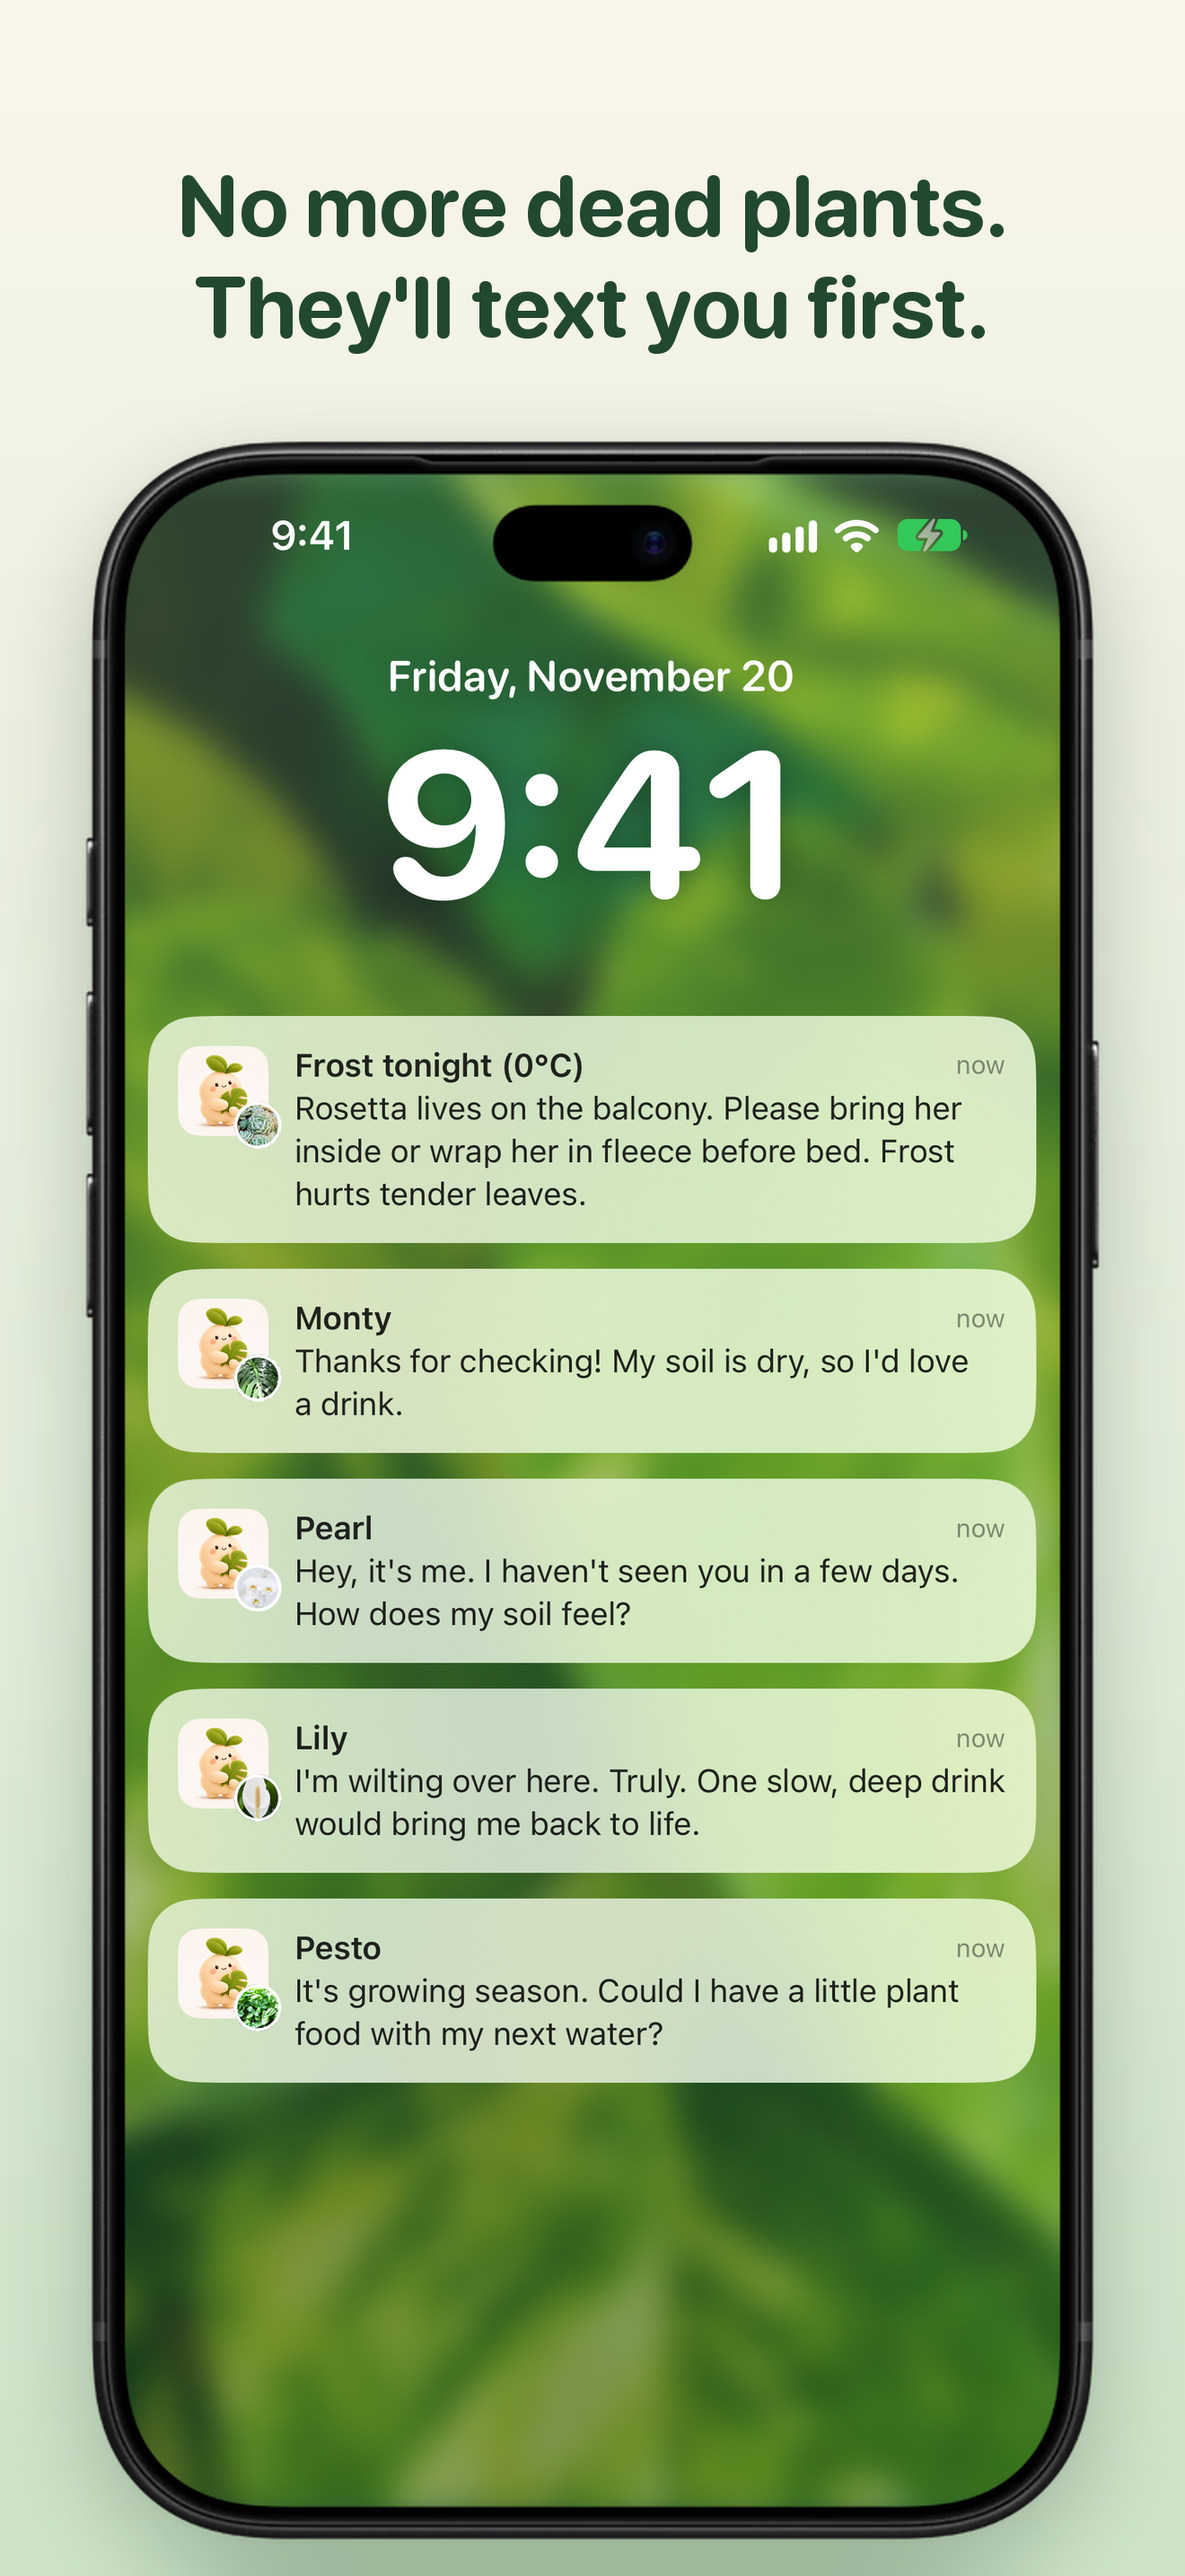
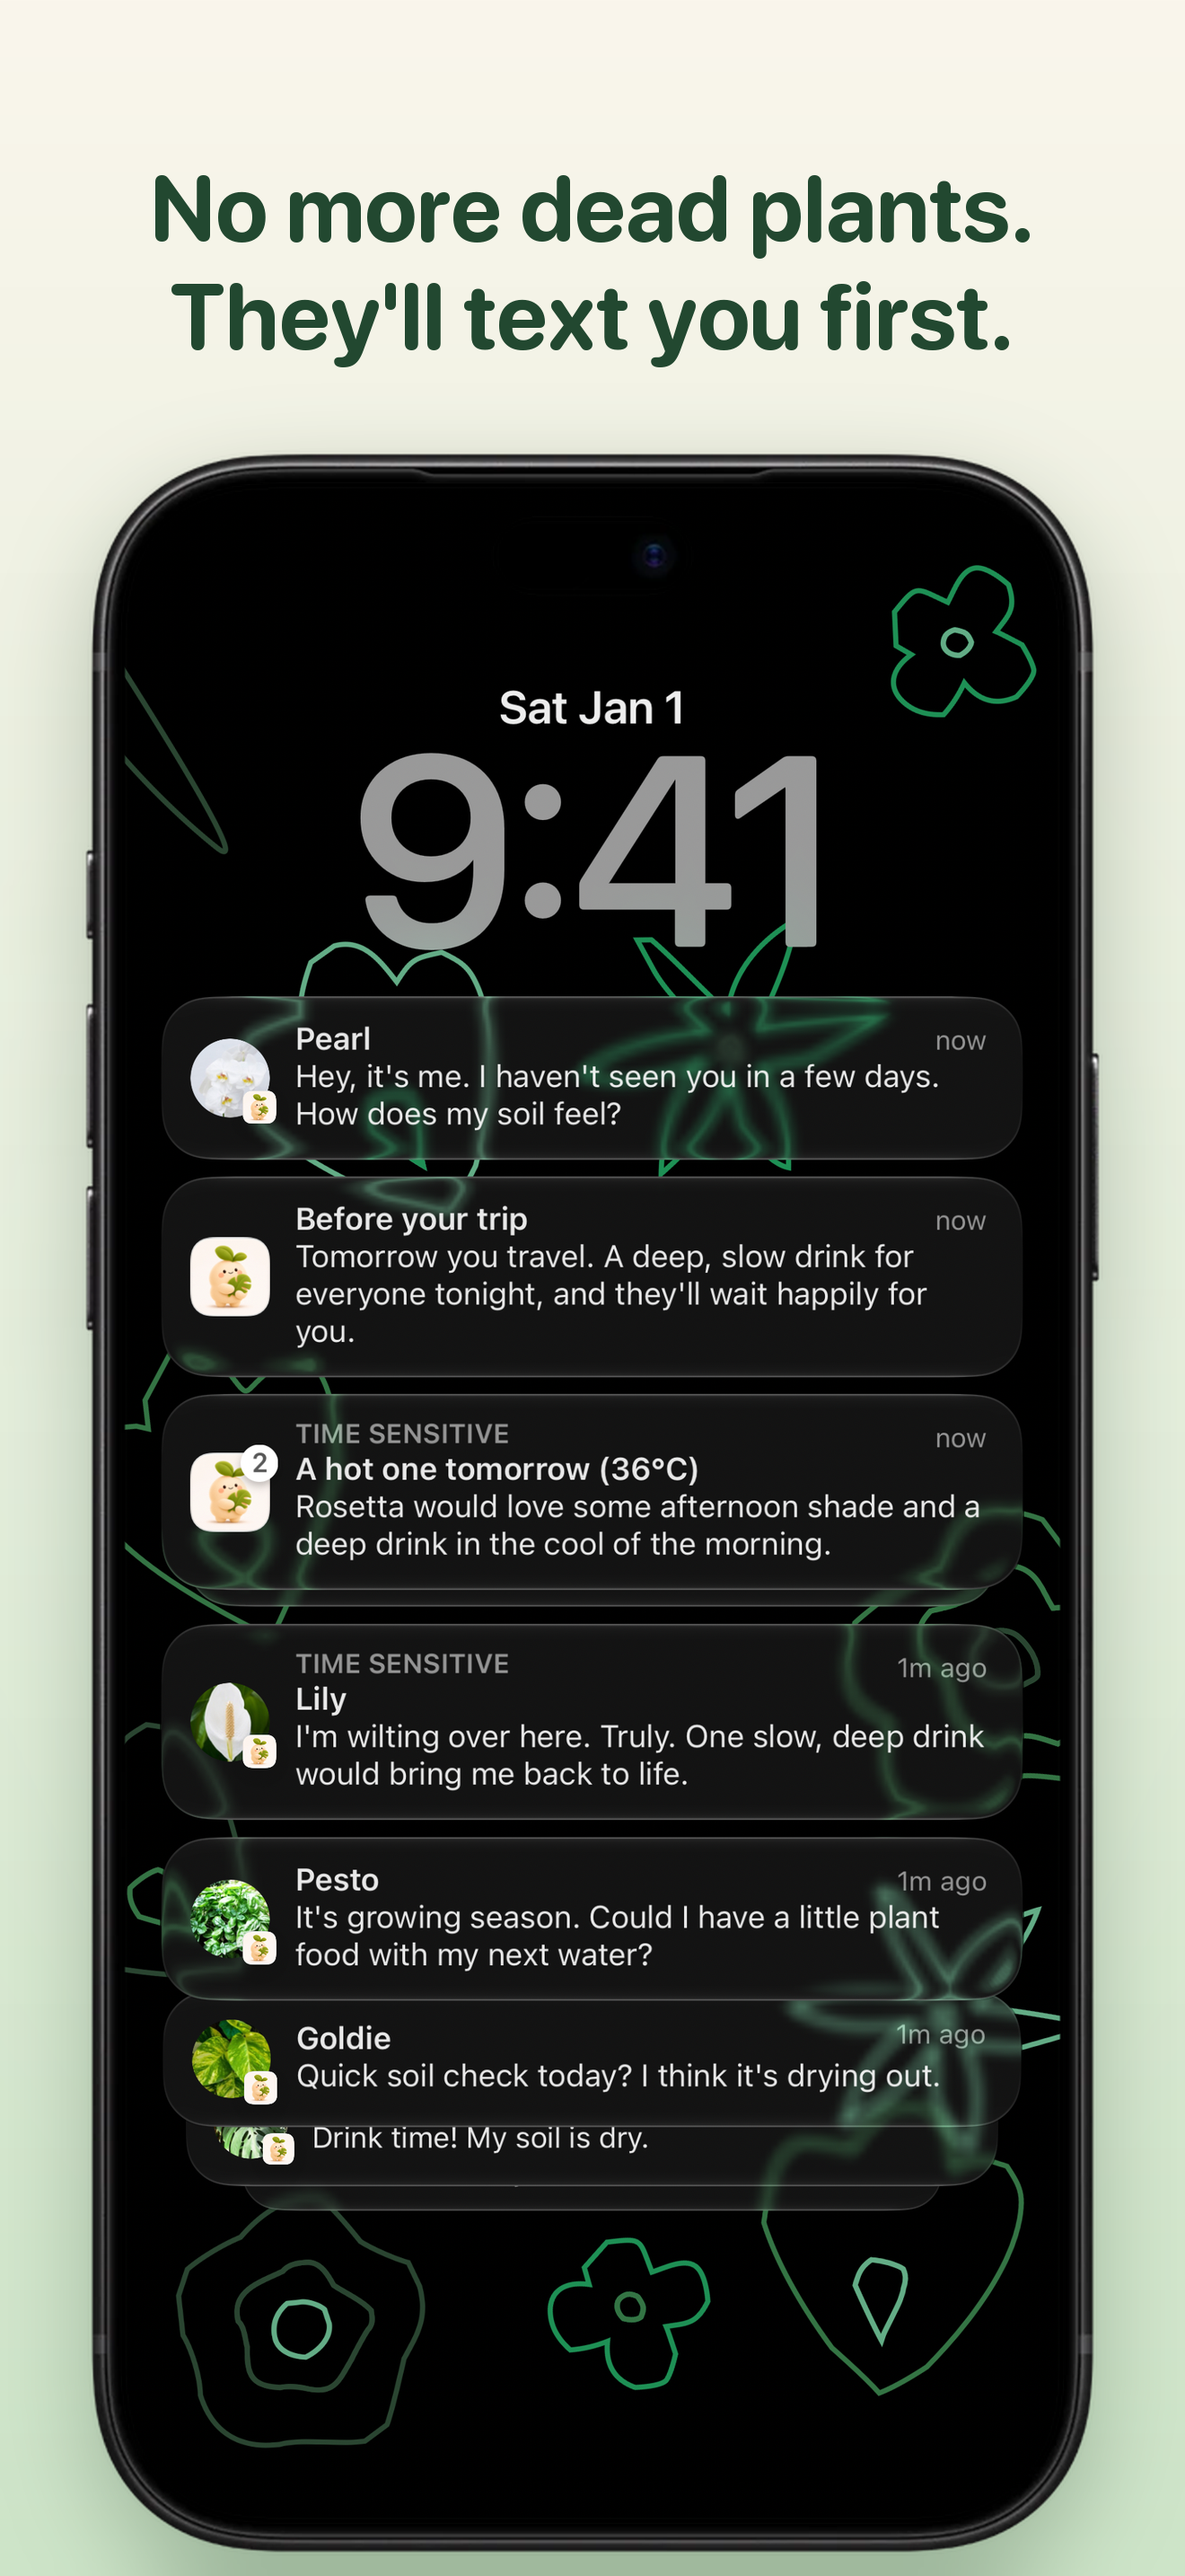
App Store: real iOS Lock Screen notification shots (iPhone + closed Duos), passport slide replaces mock widgets, editable 6.3" sets, header and search results art

diff --git a/MyTinyJungle/Account/PlantNotifications.swift b/MyTinyJungle/Account/PlantNotifications.swift
@@ -231,6 +231,8 @@ enum PlantNote {
             (.chat, [named("Pearl")], nil, Grammar.pt(String(localized: "Hey, it's me. I haven't seen you in a few days. How does my soil feel?", comment: "Demo chat notification body, plant missing its owner"))),
         ]
         let center = UNUserNotificationCenter.current()
+        _ = try? await center.requestAuthorization(options: [.alert, .sound, .badge])
+        center.removeAllDeliveredNotifications(); center.removeAllPendingNotificationRequests()
         for (i, n) in notes.enumerated() where only == nil || only == "\(i)" {
             var c = await make(n.0, plants: n.1, title: n.2, body: n.3)
             // Capturing a single passive note: let it show as a banner so it can be previewed.

diff --git a/Marketing/appstore-assets/make.py b/Marketing/appstore-assets/make.py
@@ -1,0 +1,44 @@
+#!/usr/bin/env python3
+"""App Store Product Page art: header (5244x2950) and search results (5244x2950), per locale.
+   python3 Marketing/appstore-assets/make.py"""
+import json, os, sys
+sys.path.insert(0, os.path.join(os.path.dirname(__file__), '../../Tools/appstore'))
+from PIL import Image, ImageDraw, ImageFilter
+R = os.path.join(os.path.dirname(__file__), '../..')
+OUT = os.path.dirname(os.path.abspath(__file__))
+import importlib.util
+spec = importlib.util.spec_from_file_location('fr', f'{R}/Tools/appstore/frame.py')
+src = open(f'{R}/Tools/appstore/frame.py').read().split('for loc, src in SRC.items():')[0]
+fr = {'__file__': f'{R}/Tools/appstore/frame.py'}; exec(src, fr)
+HERO = Image.open(f'{R}/Assets/AppStore/retention/hero.png').convert('RGB')
+BG = HERO.getpixel((20, 20))
+HEAD = json.load(open(f'{R}/Tools/appstore/headlines.json'))
+
+# Header: hero art, scaled to 86% and lifted so the mascot sits above the bottom third.
+W, H = 5244, 2950
+k = 0.86 * W / HERO.width
+art = HERO.resize((int(HERO.width * k), int(HERO.height * k)), Image.LANCZOS)
+hd = Image.new('RGB', (W, H), BG); hd.paste(art, ((W - art.width) // 2, int(H * 0.04)))
+hd.save(f'{OUT}/header.png', optimize=True)
+
+# Search results: headline left, Erty, phone with the real Lock Screen on the right.
+erty = HERO.crop((1300, 300, 2600, 1800))
+for loc, raw in (('en-US', 'en-US'), ('pt-BR', 'pt-BR'), ('pt-PT', 'pt-BR')):
+    W2, H2 = 3840, 2160
+    c = Image.new('RGB', (W2, H2), BG)
+    d = ImageDraw.Draw(c); f = fr['font'](150)
+    lines = HEAD[loc][0].split('\n')
+    while max(d.textlength(l, font=f) for l in lines) > 1900: f = fr['font'](f.size - 6)
+    y = H2 // 2 - int(f.size * 1.2)
+    for l in lines: d.text((200, y), l, font=f, fill=fr['INK']); y += int(f.size * 1.2)
+    e = erty.resize((int(erty.width * 0.62), int(erty.height * 0.62)), Image.LANCZOS)
+    m = Image.new('L', e.size, 0); ImageDraw.Draw(m).rectangle([120, 0, e.width - 120, e.height], fill=255)
+    c.paste(e, (2130, 1720 - e.height), m.filter(ImageFilter.GaussianBlur(70)))
+    scr = Image.open(f'{R}/Assets/AppStore/screenshots/raw/{raw}/iphone69/01-notes.png')
+    dev = fr['device'](scr, 900)
+    top = (H2 - dev.height) // 2
+    sh = Image.new('L', c.size, 0); sh.paste(dev.split()[3].point(lambda a: 60 if a else 0), (2820, top + 40))
+    c.paste(Image.new('RGB', c.size, (40, 70, 45)), mask=sh.filter(ImageFilter.GaussianBlur(40)))
+    c.paste(dev, (2820, top), dev)
+    c.resize((5244, 2950), Image.LANCZOS).save(f'{OUT}/search-{loc}.png', optimize=True)
+print('ok')
